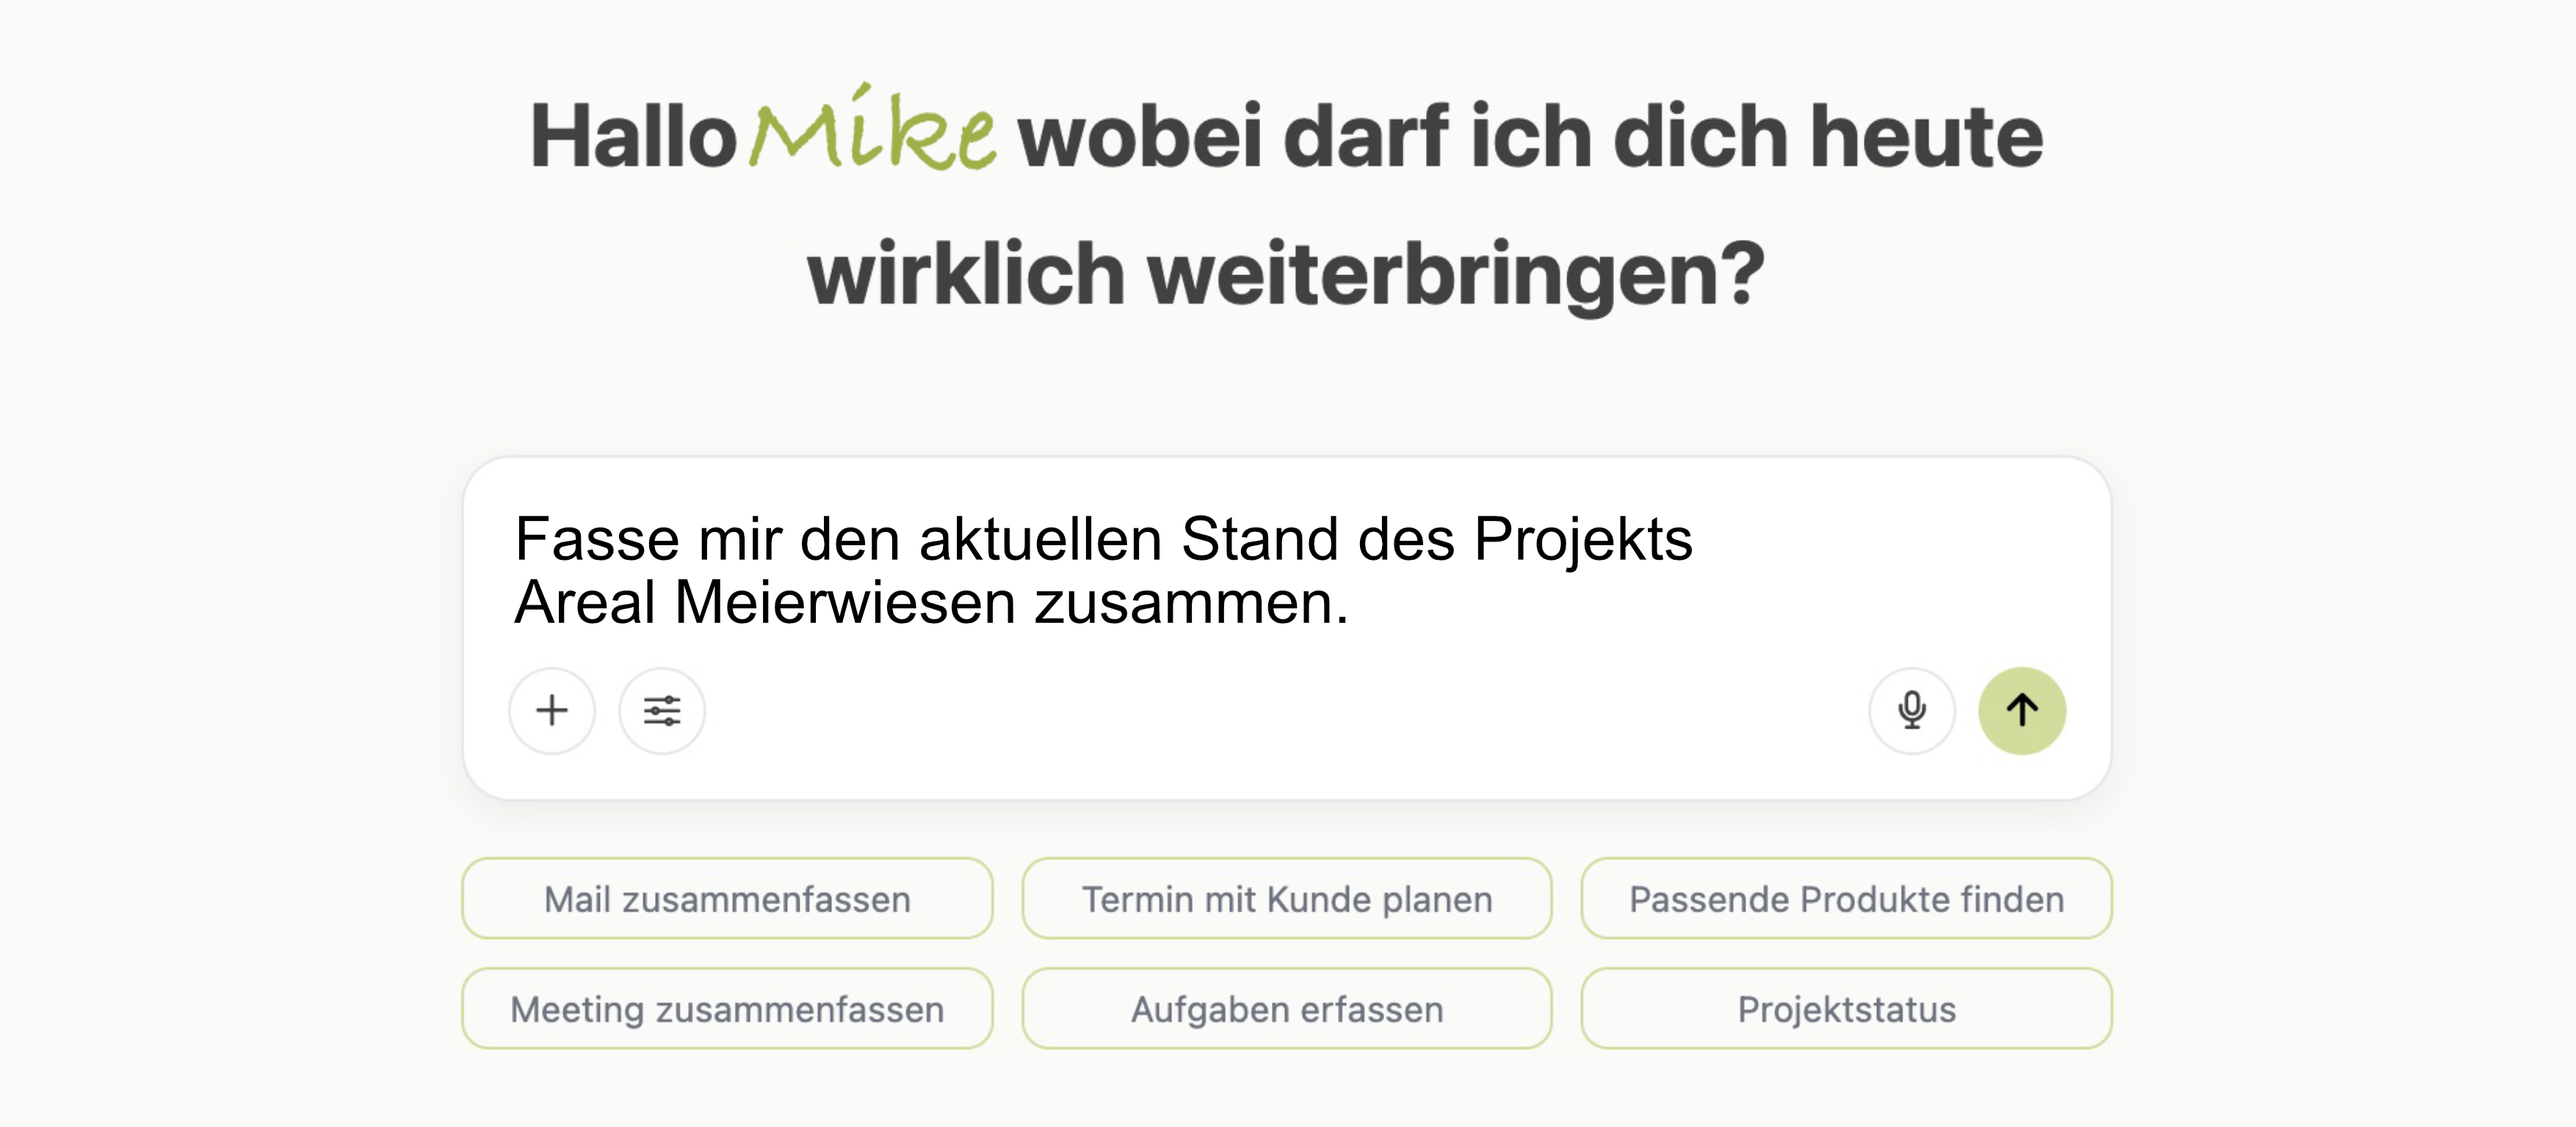
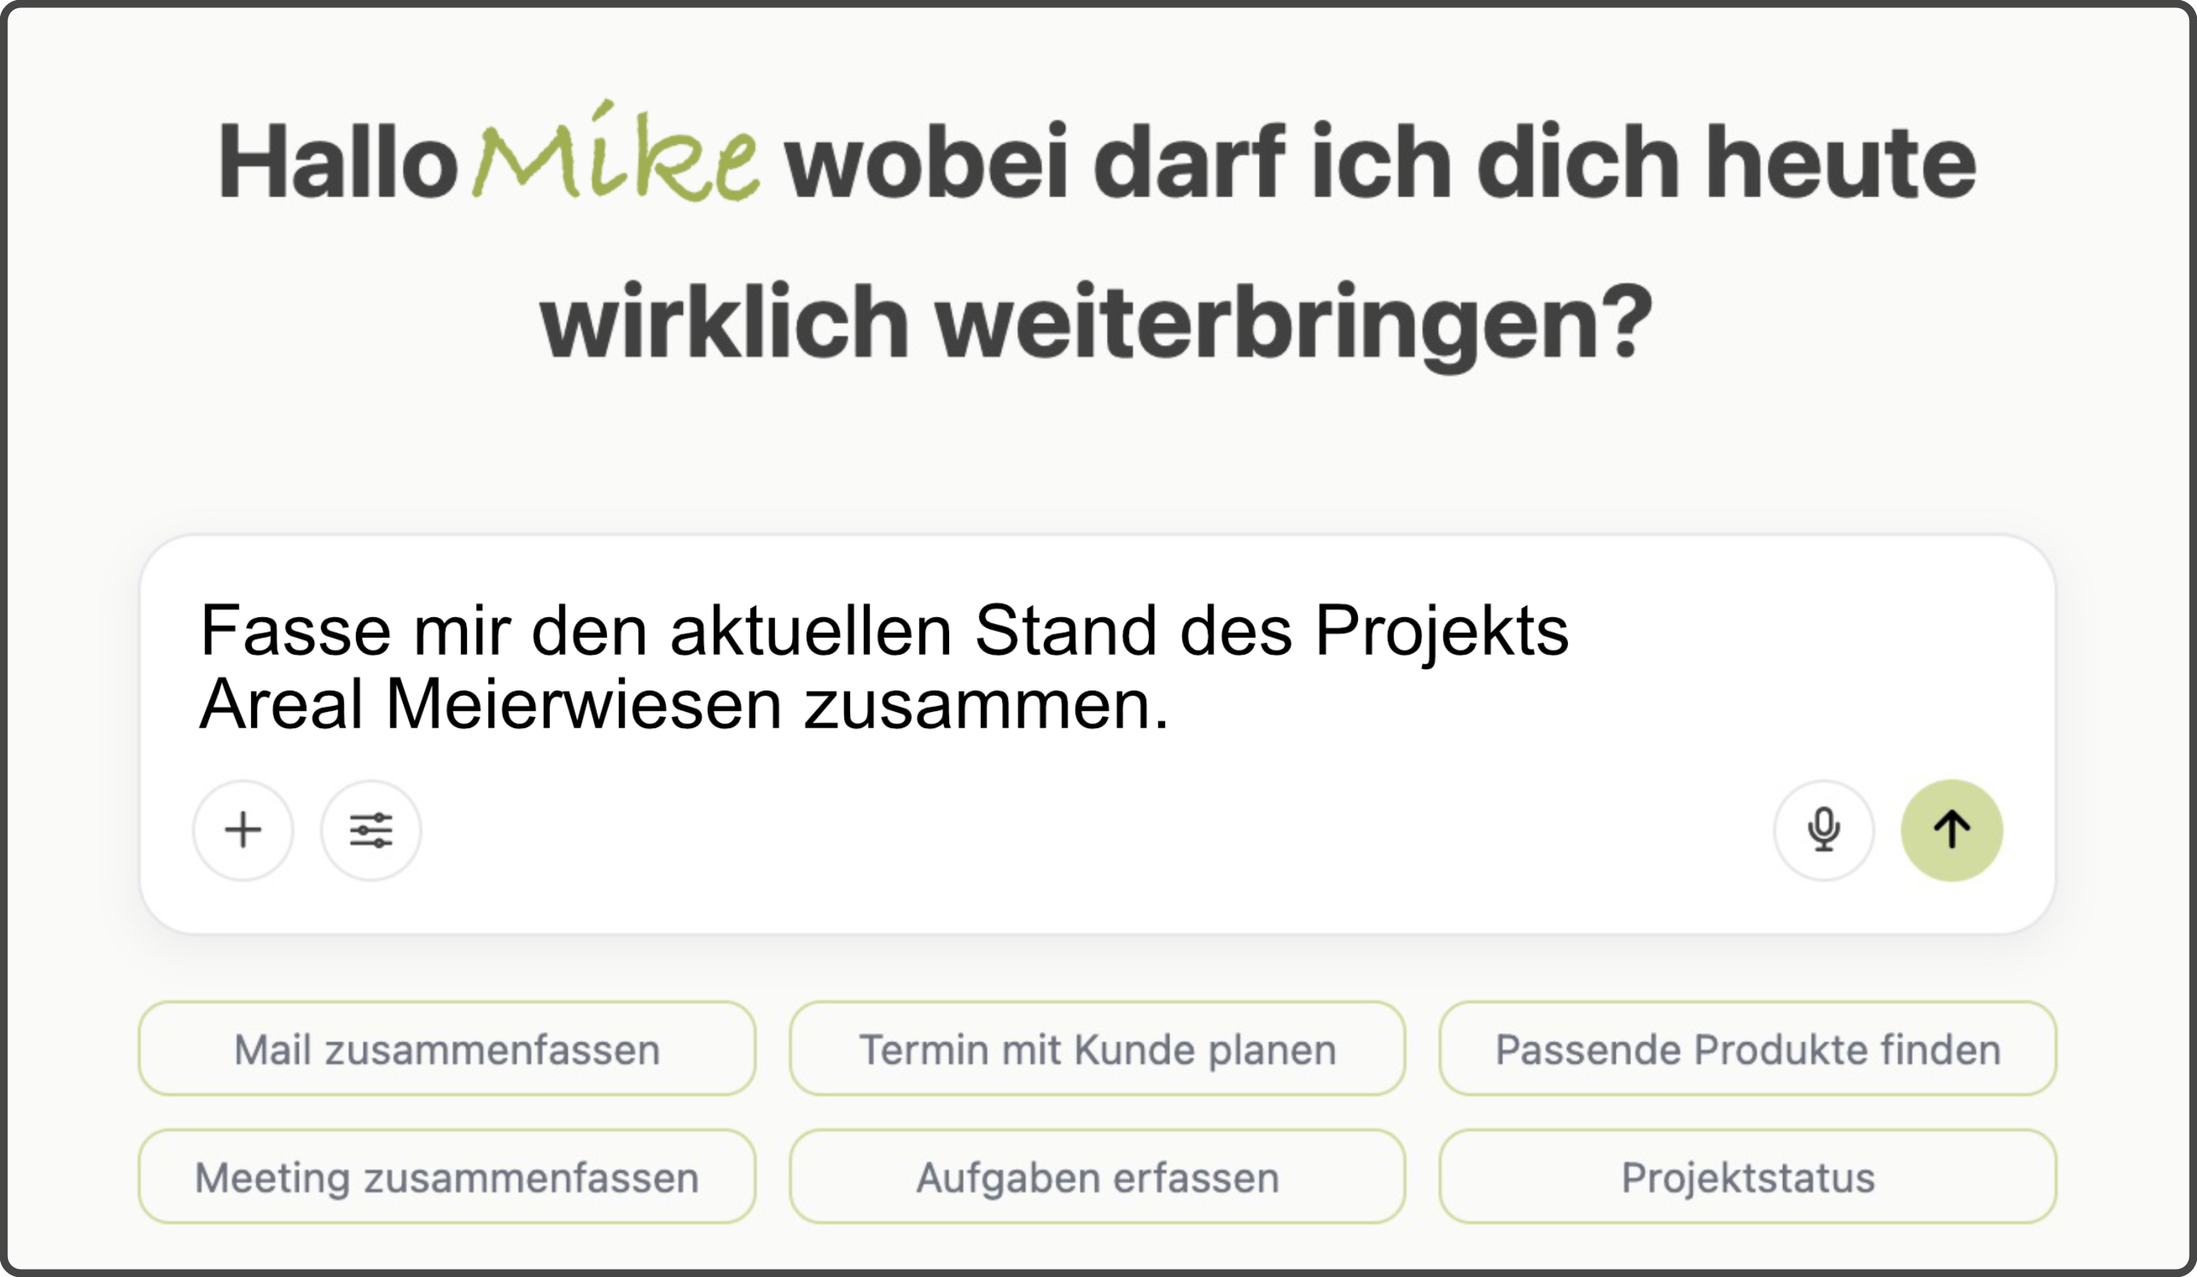
Passe Assistenten-Showcase-Titel, Animation und Bilder an.
Titelgröße wie Integrationen, Fragen gleiten von rechts ein, volle Bildrahmen ohne Füllfarbe, aktualisierte Frage-Assets mit Cache-Bust.

diff --git a/index.html b/index.html
@@ -8,7 +8,7 @@
     <link rel="preconnect" href="https://fonts.googleapis.com">
     <link rel="preconnect" href="https://fonts.gstatic.com" crossorigin>
     <link href="https://fonts.googleapis.com/css2?family=Cormorant+Garamond:ital,wght@0,400;0,500;0,600;1,400;1,500&display=swap" rel="stylesheet">
-    <link rel="stylesheet" href="styles.css?v=118">
+    <link rel="stylesheet" href="styles.css?v=119">
   </head>
   <body>
     <header class="site-header">
@@ -278,7 +278,7 @@
             <div class="assistant-showcase-viewport" aria-live="polite">
               <figure class="assistant-showcase-slide is-active" data-example="0" data-step="0">
                 <img
-                  src="assets/images/Asistent%20bei%20der%20Arbeit/Frage%201%20-%20Mail.png"
+                  src="assets/images/Asistent%20bei%20der%20Arbeit/Frage%201%20-%20Mail.png?v=2"
                   alt="Eingabe: Zeige mir die letzte E-Mail von Michael Keller zum Projekt Areal Meierwiesen"
                   width="1600"
                   height="900"
@@ -287,7 +287,7 @@
               </figure>
               <figure class="assistant-showcase-slide" data-example="0" data-step="1" hidden>
                 <img
-                  src="assets/images/Asistent%20bei%20der%20Arbeit/Amtwort%201%20-%20Mail.png"
+                  src="assets/images/Asistent%20bei%20der%20Arbeit/Amtwort%201%20-%20Mail.png?v=2"
                   alt="Antwort: zuraio zeigt die letzte E-Mail zum Projekt Areal Meierwiesen"
                   width="1600"
                   height="900"
@@ -297,7 +297,7 @@
               </figure>
               <figure class="assistant-showcase-slide" data-example="1" data-step="0" hidden>
                 <img
-                  src="assets/images/Asistent%20bei%20der%20Arbeit/Frage%202%20-%20Zusammenfassung.png"
+                  src="assets/images/Asistent%20bei%20der%20Arbeit/Frage%202%20-%20Zusammenfassung.png?v=2"
                   alt="Eingabe: Fasse mir den aktuellen Stand des Projekts Areal Meierwiesen zusammen"
                   width="1600"
                   height="900"
@@ -307,7 +307,7 @@
               </figure>
               <figure class="assistant-showcase-slide" data-example="1" data-step="1" hidden>
                 <img
-                  src="assets/images/Asistent%20bei%20der%20Arbeit/Antwort%202%20-%20Zusammenfassung.png"
+                  src="assets/images/Asistent%20bei%20der%20Arbeit/Antwort%202%20-%20Zusammenfassung.png?v=2"
                   alt="Antwort: zuraio liefert eine Projektzusammenfassung zu Areal Meierwiesen"
                   width="1600"
                   height="900"
@@ -317,7 +317,7 @@
               </figure>
               <figure class="assistant-showcase-slide" data-example="2" data-step="0" hidden>
                 <img
-                  src="assets/images/Asistent%20bei%20der%20Arbeit/Frage%203%20-%20Termine%20und%20Antwort.png"
+                  src="assets/images/Asistent%20bei%20der%20Arbeit/Frage%203%20-%20Termine%20und%20Antwort.png?v=2"
                   alt="Eingabe: Schlage drei Termine vor und beantworte die E-Mail"
                   width="1600"
                   height="900"
@@ -327,7 +327,7 @@
               </figure>
               <figure class="assistant-showcase-slide" data-example="2" data-step="1" hidden>
                 <img
-                  src="assets/images/Asistent%20bei%20der%20Arbeit/Antwort%203%20-%20Mail.png"
+                  src="assets/images/Asistent%20bei%20der%20Arbeit/Antwort%203%20-%20Mail.png?v=2"
                   alt="Antwort: zuraio erstellt eine E-Mail-Antwort mit Terminvorschlägen"
                   width="1600"
                   height="900"
@@ -337,7 +337,7 @@
               </figure>
               <figure class="assistant-showcase-slide" data-example="2" data-step="2" hidden>
                 <img
-                  src="assets/images/Asistent%20bei%20der%20Arbeit/Antwort%203%20-%20Termin.png"
+                  src="assets/images/Asistent%20bei%20der%20Arbeit/Antwort%203%20-%20Termin.png?v=2"
                   alt="Antwort: zuraio trägt drei Terminvorschläge in den Kalender ein"
                   width="1600"
                   height="900"
@@ -347,7 +347,7 @@
               </figure>
               <figure class="assistant-showcase-slide" data-example="3" data-step="0" hidden>
                 <img
-                  src="assets/images/Asistent%20bei%20der%20Arbeit/Frage%204%20-%20Meetingtranskript.png"
+                  src="assets/images/Asistent%20bei%20der%20Arbeit/Frage%204%20-%20Meetingtranskript.png?v=2"
                   alt="Eingabe: Starte das Meetingtranskript zum Projekt Areal Meierwiesen"
                   width="1600"
                   height="900"
@@ -357,7 +357,7 @@
               </figure>
               <figure class="assistant-showcase-slide" data-example="3" data-step="1" hidden>
                 <img
-                  src="assets/images/Asistent%20bei%20der%20Arbeit/Antwort%204%20-%20Meetingtranskript.png"
+                  src="assets/images/Asistent%20bei%20der%20Arbeit/Antwort%204%20-%20Meetingtranskript.png?v=2"
                   alt="Antwort: zuraio zeigt das Meetingtranskript mit Audio-Wellenform"
                   width="1600"
                   height="900"
@@ -367,7 +367,7 @@
               </figure>
               <figure class="assistant-showcase-slide" data-example="4" data-step="0" hidden>
                 <img
-                  src="assets/images/Asistent%20bei%20der%20Arbeit/Frage%205%20-%20Aufgabe.png"
+                  src="assets/images/Asistent%20bei%20der%20Arbeit/Frage%205%20-%20Aufgabe.png?v=2"
                   alt="Eingabe: Erstelle aus dem Meeting die Aufgaben für mich"
                   width="1600"
                   height="900"
@@ -377,7 +377,7 @@
               </figure>
               <figure class="assistant-showcase-slide" data-example="4" data-step="1" hidden>
                 <img
-                  src="assets/images/Asistent%20bei%20der%20Arbeit/Antwort%205%20-%20Aufgabe.png"
+                  src="assets/images/Asistent%20bei%20der%20Arbeit/Antwort%205%20-%20Aufgabe.png?v=2"
                   alt="Antwort: zuraio legt die Meeting-Aufgaben im Board an"
                   width="1600"
                   height="900"
@@ -387,7 +387,7 @@
               </figure>
               <figure class="assistant-showcase-slide" data-example="5" data-step="0" hidden>
                 <img
-                  src="assets/images/Asistent%20bei%20der%20Arbeit/Frage%206%20-%20Briefing.png"
+                  src="assets/images/Asistent%20bei%20der%20Arbeit/Frage%206%20-%20Briefing.png?v=2"
                   alt="Eingabe: Erstelle mir ein kompaktes Briefing für das Statusmeeting mit dem Kunden"
                   width="1600"
                   height="900"
@@ -397,7 +397,7 @@
               </figure>
               <figure class="assistant-showcase-slide" data-example="5" data-step="1" hidden>
                 <img
-                  src="assets/images/Asistent%20bei%20der%20Arbeit/Antwort%206%20-%20Briefing.png"
+                  src="assets/images/Asistent%20bei%20der%20Arbeit/Antwort%206%20-%20Briefing.png?v=2"
                   alt="Antwort: zuraio liefert ein kompaktes Meetingbriefing"
                   width="1600"
                   height="900"
@@ -678,6 +678,6 @@
     </div>
 
     <script src="i18n-pages.js"></script>
-    <script src="script.js?v=61"></script>
+    <script src="script.js?v=62"></script>
   </body>
 </html>

diff --git a/styles.css b/styles.css
@@ -1319,9 +1319,9 @@ button.button {
   margin: 0 0 8px;
   color: #464646;
   font-family: "Cormorant Garamond", "Times New Roman", Georgia, serif;
-  font-size: clamp(28px, 3.8vw, 48px);
+  font-size: var(--hero-title-size);
   font-weight: 500;
-  line-height: 1.02;
+  line-height: 0.95;
   letter-spacing: -0.01em;
 }
 
@@ -1356,10 +1356,7 @@ button.button {
   width: 100%;
   overflow: hidden;
   border-radius: 18px;
-  background: #ebe8e1;
-  box-shadow:
-    0 18px 44px rgba(32, 35, 38, 0.12),
-    0 2px 0 rgba(255, 255, 255, 0.65) inset;
+  background: transparent;
   isolation: isolate;
 }
 
@@ -1413,12 +1410,12 @@ button.button {
 }
 
 .assistant-showcase-slide.is-companion-question img {
-  background: #f4f3f0;
+  background: transparent;
 }
 
 .assistant-showcase-slide.is-enter-question {
-  transform: scale(1.1) translate3d(0, 24px, 0);
-  filter: blur(8px) saturate(0.88);
+  transform: translate3d(110%, 0, 0) scale(1);
+  filter: blur(4px) saturate(0.94);
 }
 
 .assistant-showcase-slide.is-enter-answer {
@@ -1432,8 +1429,8 @@ button.button {
 }
 
 .assistant-showcase-slide.is-leave-question {
-  transform: scale(0.9) translate3d(-48px, -8px, 0);
-  filter: blur(6px) saturate(0.9);
+  transform: translate3d(-110%, 0, 0) scale(1);
+  filter: blur(4px) saturate(0.94);
 }
 
 .assistant-showcase-slide.is-leave-answer {
@@ -1442,7 +1439,10 @@ button.button {
 }
 
 .assistant-showcase-slide[data-step="0"].is-active {
-  transform: scale(1.02) translate3d(0, 0, 0);
+  inset: 0;
+  width: 100%;
+  height: 100%;
+  transform: scale(1) translate3d(0, 0, 0);
 }
 
 .assistant-showcase-slide[data-step]:not([data-step="0"]).is-active {
@@ -1457,7 +1457,7 @@ button.button {
   height: 100%;
   object-fit: contain;
   object-position: center center;
-  background: #f4f3f0;
+  background: transparent;
 }
 
 .assistant-showcase-controls {
@@ -1589,7 +1589,7 @@ button.button {
   }
 
   .assistant-showcase-title {
-    font-size: clamp(26px, 8vw, 36px);
+    font-size: var(--hero-title-size);
   }
 
   .assistant-showcase-nav-btn {
